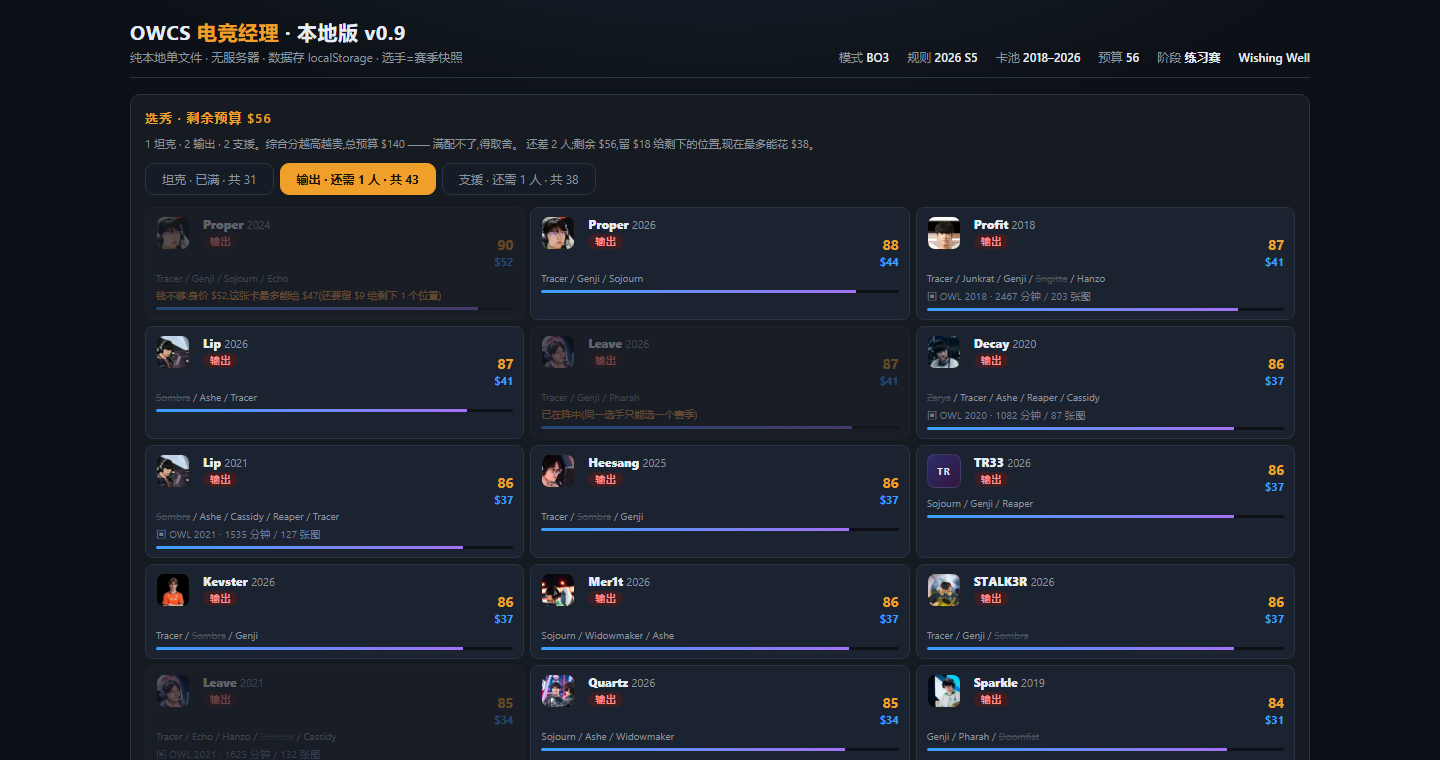
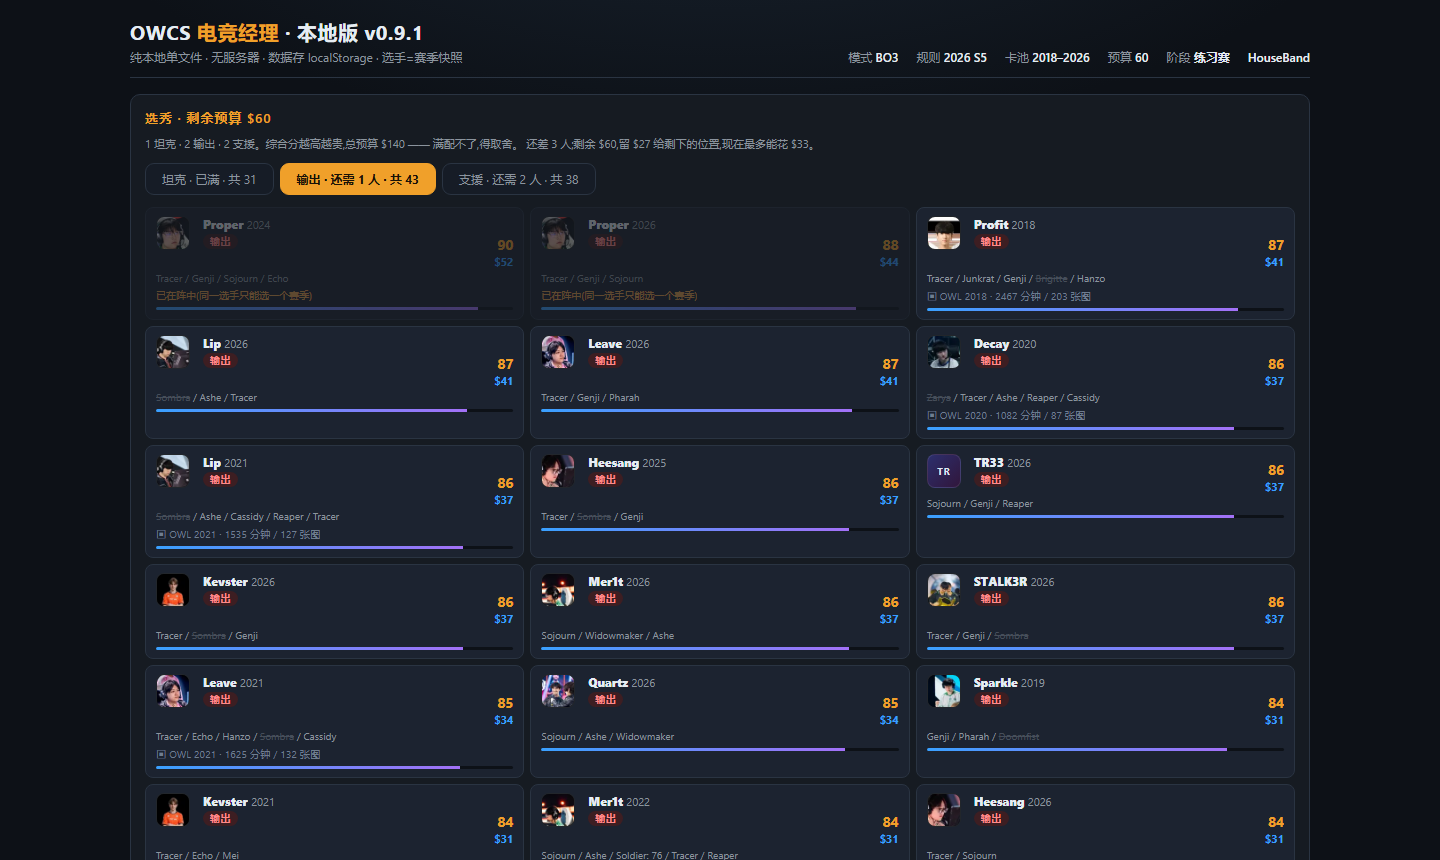
默认战队名改为 HouseBand
- S.teamName 初值 / 建队页输入框默认值 / 顶栏兜底 统一为 HouseBand
- 同步刷新 docs/draft.png、docs/theater.png 截图

diff --git a/owcs-manager.html b/owcs-manager.html
@@ -939,7 +939,7 @@ function applyCards(cards){
 
 let S = {
   phase:"setup",          // setup | draft | series | mapselect | ban | sim | report | done
-  teamName:"",
+  teamName:"HouseBand",
   budget:BUDGET,
   roster:[],              // 玩家 5 张卡
   oppRoster:[],
@@ -979,7 +979,7 @@ function renderRaw(){
   if(lbl) lbl.textContent = C ? "资金" : "预算";
   const st = document.getElementById("hStage");
   if(st) st.textContent = C ? stageName() : "练习赛";
-  const ht = document.getElementById("hTeam"); if(ht) ht.textContent = S.teamName || "未命名战队";
+  const ht = document.getElementById("hTeam"); if(ht) ht.textContent = S.teamName || "HouseBand";
   const tc = document.getElementById("toolsCard");
   if(tc && tc.style) tc.style.display = (S.phase === "sim") ? "none" : "";
   switch(S.phase){
@@ -1038,7 +1038,7 @@ function renderSetup(){
     <div class="row" style="align-items:flex-end">
       <div class="col" style="max-width:320px">
         <div class="mini" style="margin-bottom:6px">战队名</div>
-        <input id="teamNameIn" value="${S.teamName||"Wishing Well"}"
+        <input id="teamNameIn" value="${S.teamName||"HouseBand"}"
           style="width:100%;padding:9px 12px;background:#0a0e13;border:1px solid var(--line);border-radius:7px;color:var(--txt);font-size:14px;font-family:inherit">
       </div>
       <div>
@@ -1086,7 +1086,7 @@ function renderSetup(){
 
 function startDraft(){
   const el = document.getElementById("teamNameIn");
-  S.teamName = (el && el.value.trim()) || "Wishing Well";
+  S.teamName = (el && el.value.trim()) || "HouseBand";
   S.phase = "draft";
   S.roster = []; S.budget = BUDGET;
   render();
@@ -2945,7 +2945,7 @@ function hardReset(){
   try{ localStorage.removeItem(LSKEY); }catch(e){}
   C = null;
   CAS = {type:"big", bet:10, dice:[1,2,3], rolling:false, last:null};
-  S = {phase:"setup",teamName:"",budget:BUDGET,roster:[],oppRoster:[],difficulty:1,
+  S = {phase:"setup",teamName:"HouseBand",budget:BUDGET,roster:[],oppRoster:[],difficulty:1,
     myMaps:0,oppMaps:0,mapSeq:[],groupsLeft:["Control","HyFlex","PushClash","Escort"],curMap:null,
     bans:[],seriesBans:[],lastLoser:null,aiPick:null,seedHigh:"me",side:{me:"atk",them:"def"},
     myArch:"dive",oppArch:"dive",round:0,
